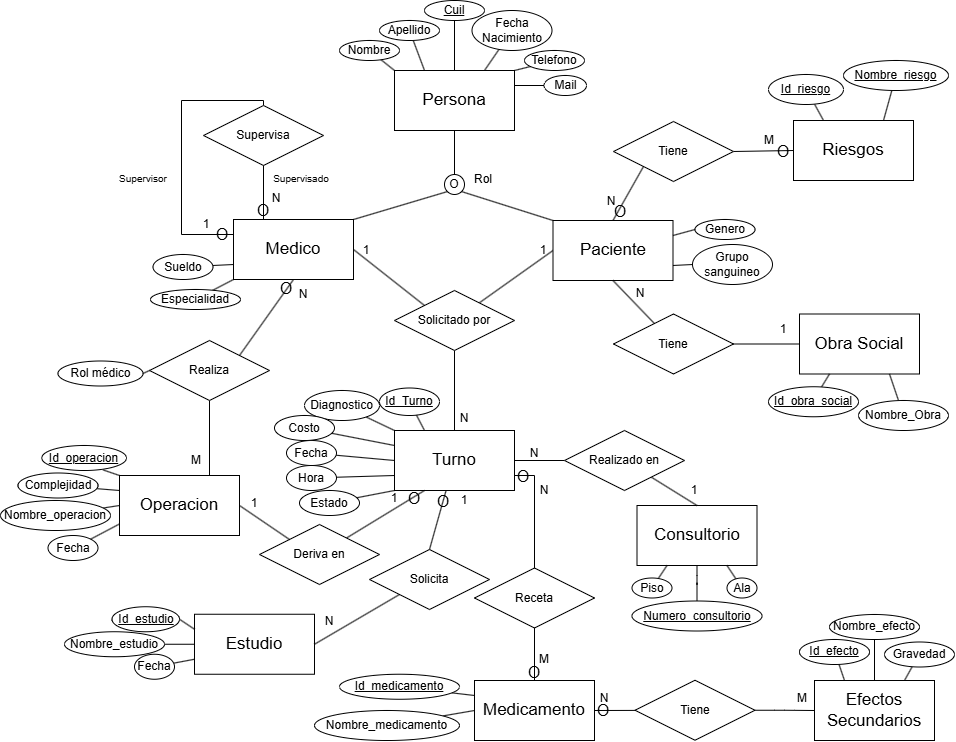
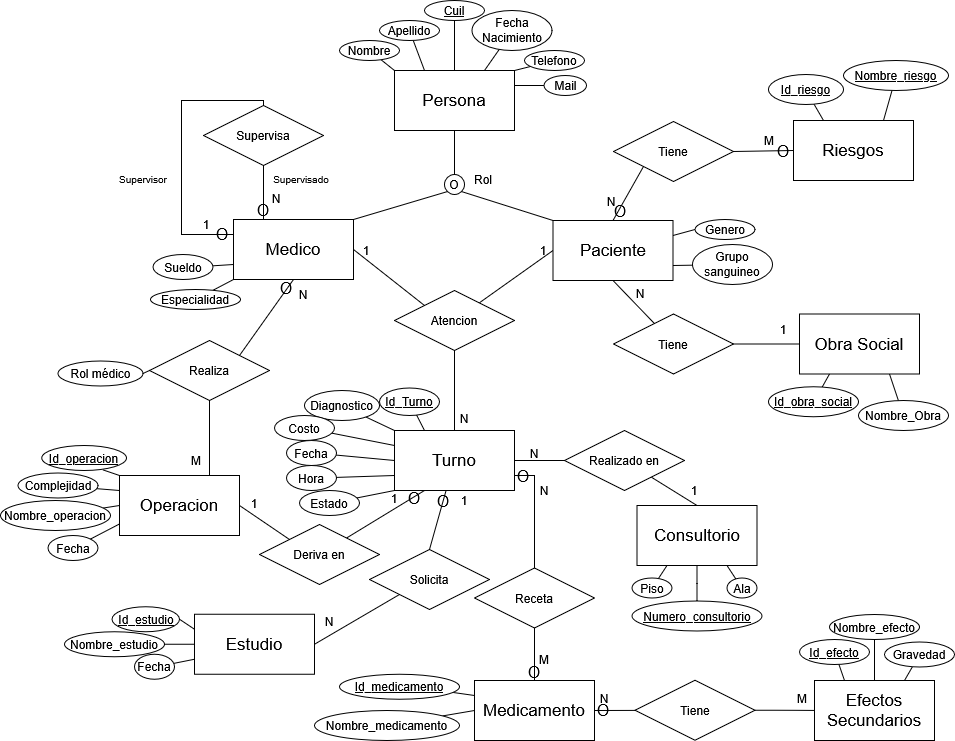
Correcciones y restriccion adicional

diff --git a/README.md b/README.md
@@ -11,19 +11,23 @@ Trabajo práctico BBDD
 - Informe Restricciones.
 
 1.2:
+- Informe
 - Implementar Restricciones. X
 
 1.3:
+- Informe
 - Poblar base.
 - Validar consistencia.
 
 2.1:
-- 2 consultas de ventana:
+- Informe
+- 2 consultas de ventana: X
     - Descripción de la pregunta.
     - Justificación de usar ventana.
     - Informar resultado.
 
 2.2:
+- Informe
 - Funciones estadisticas:
     - C1.
     - C2.
@@ -37,6 +41,7 @@ Trabajo práctico BBDD
 - Comparar y explicar diferencias.
 
 3.1:
+- Informe
 - 3 procesos con MapReduce:
     - Describir pregunta.
     - Explicitar Map.
@@ -44,6 +49,7 @@ Trabajo práctico BBDD
     - Mostrar resultados.
 
 4.1.1: 
+- Informe
 - 3 tipos de datos que almacenar como clave-valor simples/hashes:
     - Código de carga de datos.
     - Consultas de valores específicos.
@@ -51,6 +57,7 @@ Trabajo práctico BBDD
     - Explicar por qué Redis es mejor que PostgreSQL en este caso.
 
 4.1.2:
+- Informe
 - Escenario donde lista de Redis es adecuada:
     - Creación y carga de datos.
     - Consultas .
@@ -58,19 +65,23 @@ Trabajo práctico BBDD
     - Simulación del flujo completo.
 
 4.1.3:
+- Informe
 - 3 claves con TTL distinto:
     - Justificar tiempo elegido.
     - Verificador de tiempo restante.
     - Mensajes que simulen el sistema.
 
 4.2:
+- Informe
 - Elegir mongo en la nube o en Docker y documentar pasos de config, string de conexión, y problemas.
 
 4.2.1:
+- Informe
 - Dos colecciones de docs:
     - Decisiones de diseño (preguntas).
 
 4.2.2:
+- Informe
 - Insercion de documentos.
 - Consultas con filtros en diferentes campos.
 - Proyecciones.
@@ -78,6 +89,7 @@ Trabajo práctico BBDD
 - Eliminación condicional.
 
 4.2.3:
+- Informe
 - 2 pipelines de agregacion:
     - Explicar cada etapa (al menos 3) y que transformación realiza.
 - Reflexion comparativa PostgreSQL, SparkSQL y MongoDB
@@ -89,7 +101,7 @@ Entrega:
 
 - El genero de los pacientes es el asignado al nacer.
 - Cada médico trabaja en una única especialidad en particular (por más de que pueda tener más de una).
-- Solo se atienden pacientes argentinos (con dni).
+- Solo se atienden pacientes que tengan CUIL.
 - Habría que agregar más?
 
 
@@ -107,6 +119,7 @@ Entrega:
 - Si un turno es programado, su fecha es posterior a la actual, si es cancelado nada, si es realizado debe ser previa a la actual. X
 - Un medico solo tiene un rol en cada operación. (ya esta cumplida al no hacer que rol forme parte de la clave de medico_operacion). X
 - Un medico no puede operarse a si mismo. X
+- Un medico o paciente no puede tener dos turnos al mismo tiempo. X
 
 ### Posibles funciones ventana
 
@@ -125,5 +138,6 @@ Podría agregar el de primer y último turno de cada paciente.
 
 ### Posibles TTL:
 
-- Sesión de paciente en la página web del hospital
+- Sesión de una persona en la página web del hospital
 - Sesión del médico en la computadora de un consultorio
+- Reserva temporal de un turno: